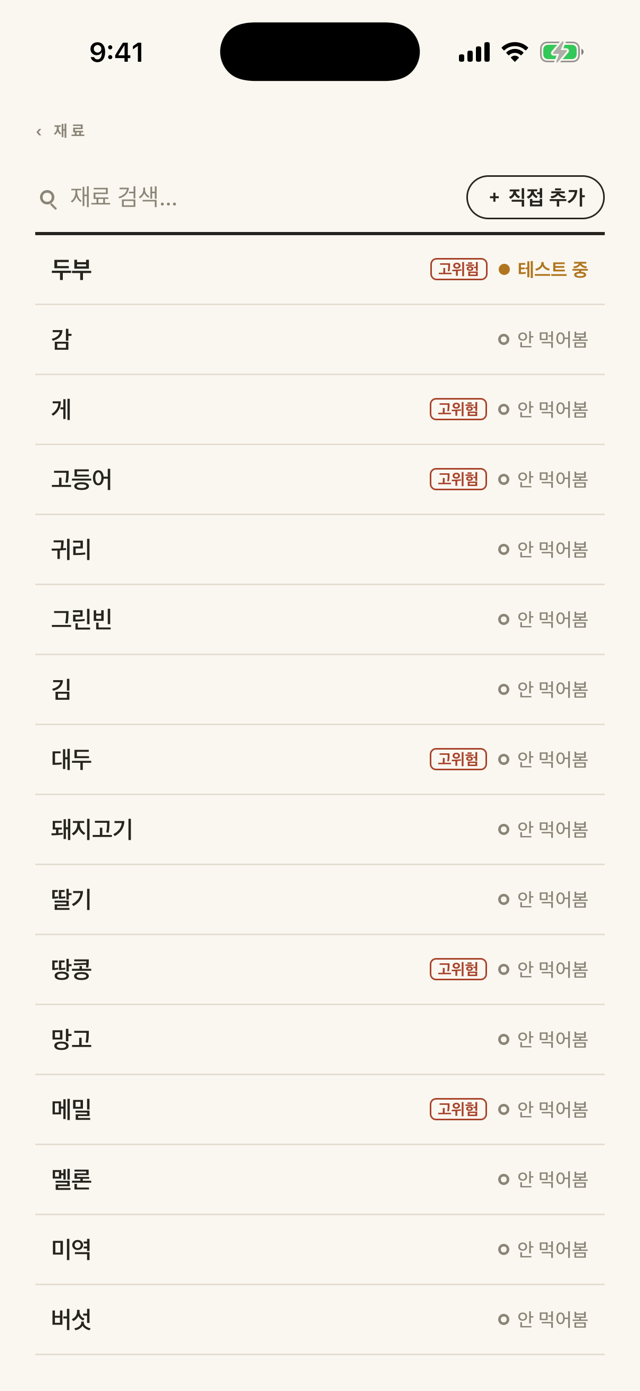
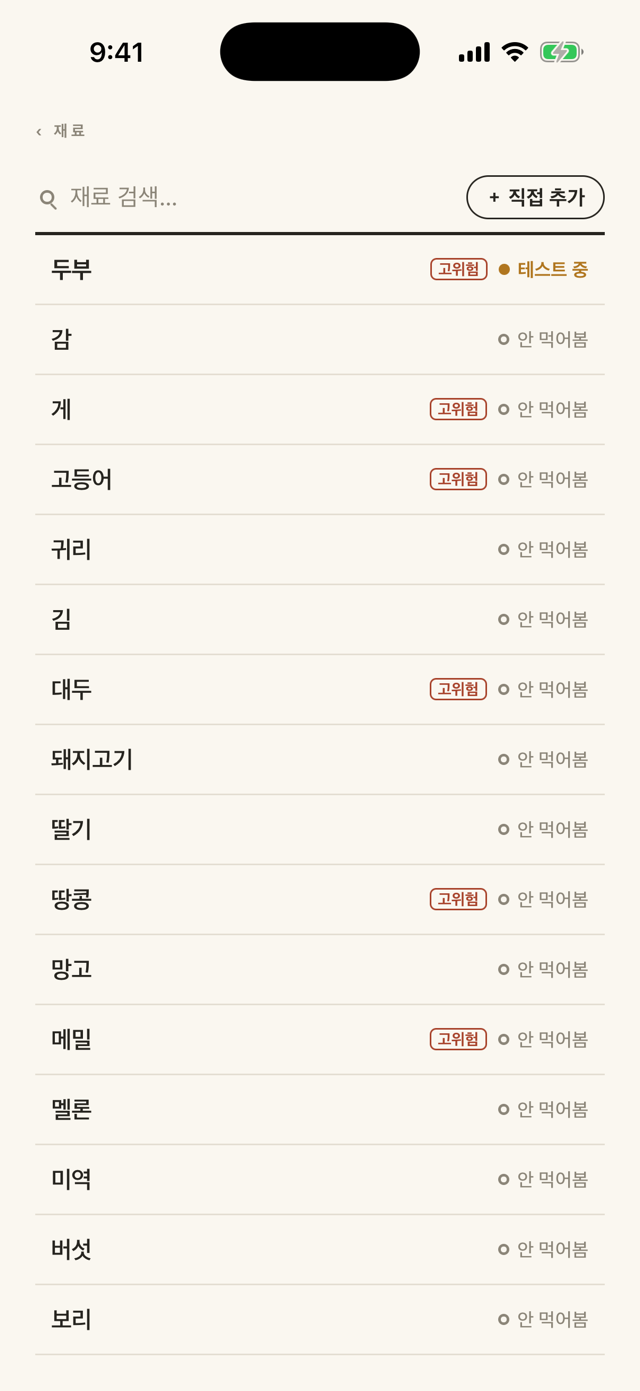
fix(catalog): drop transliterated 그린빈; standardize two loanword spellings
'그린빈' was a literal transliteration of English 'green bean' with no
unambiguous native equivalent, so the ingredient is removed rather than
guessed (catalog 56→55). Also standardize two loanword spellings to their
외래어 표기법 forms: 요거트→요구르트, 캐슈넛→캐슈너트. README count and the
home/foods screenshots (untried 42→41, list minus 그린빈) refreshed.

diff --git a/src/db/catalog.ts b/src/db/catalog.ts
@@ -14,7 +14,7 @@ export const CATALOG: { id: string; group: string | null }[] = [
   { id: 'pumpkin', group: null }, { id: 'zucchini', group: null }, { id: 'carrot', group: null },
   { id: 'broccoli', group: null }, { id: 'cauliflower', group: null }, { id: 'cabbage', group: null },
   { id: 'spinach', group: null }, { id: 'cucumber', group: null }, { id: 'pea', group: null },
-  { id: 'greenbean', group: null }, { id: 'onion', group: null }, { id: 'tomato', group: null },
+  { id: 'onion', group: null }, { id: 'tomato', group: null },
   { id: 'mushroom', group: null }, { id: 'seaweed', group: null }, { id: 'laver', group: null },
   { id: 'apple', group: null }, { id: 'pear', group: null }, { id: 'banana', group: null },
   { id: 'avocado', group: null }, { id: 'blueberry', group: null }, { id: 'strawberry', group: null },

diff --git a/README.md b/README.md
@@ -72,7 +72,7 @@ and scope decisions — lives at [docs/design-spec.md](docs/design-spec.md).
   already marked safe flips it to red, matching how real allergies surface.
 - **Calendar history** — month view tints each day inside a trial window
   and dots reaction/check-in days, with a per-day event list.
-- **Curated catalog** of 56 Korean weaning foods with the big-9 allergen
+- **Curated catalog** of 55 Korean weaning foods with the big-9 allergen
   groups flagged 고위험, plus free-text custom foods.
 - **Doctor-ready PDF report** (foods tried, statuses, reaction log) and
   one-tap JSON backup — both generated on device and handed to the iOS